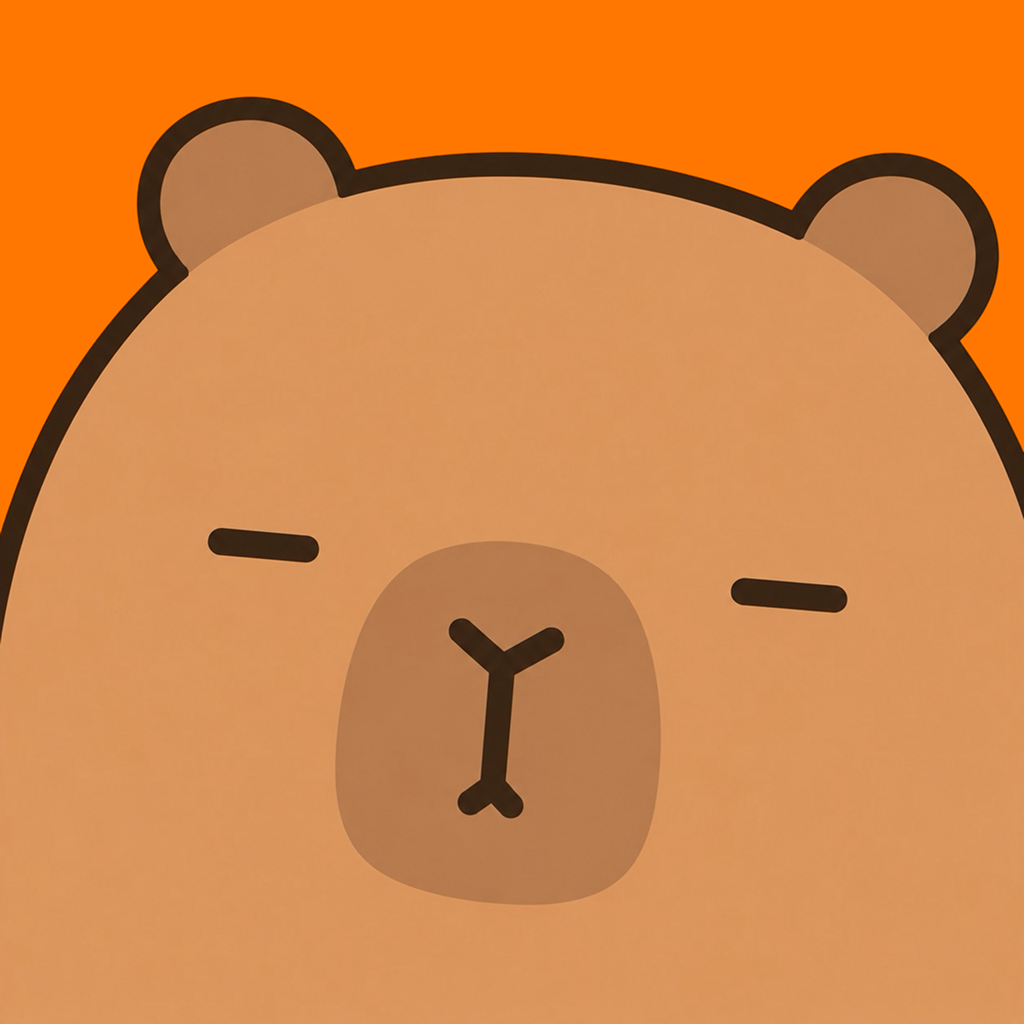
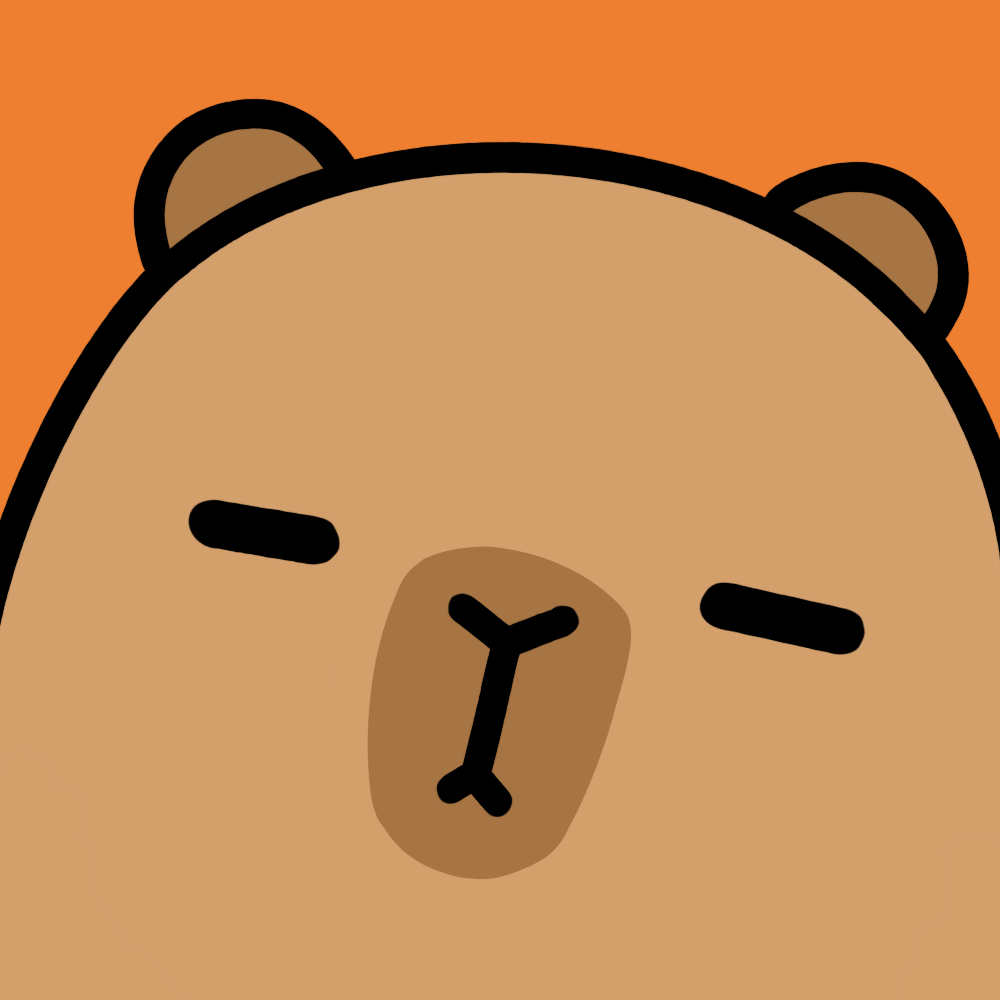
refactor(frontend): 지원 페이지 카카오톡 채널 추가 및 베타 스펙 반영
- 지원 페이지 문의 채널을 카카오톡 채널(pf.kakao.com/_TshfX) + 이메일 카드로 재구성
- 베타에서 제외된 구독·이용등급 내용을 FAQ, 개인정보 처리방침, 이용약관에서 제거
  (건초 팩 인앱결제·리워드 광고는 앱에 실재하여 유지)
- 캐피 앱 아이콘 디테일 수정본으로 교체(파비콘 포함)

diff --git a/frontend/app/support/page.tsx b/frontend/app/support/page.tsx
@@ -1,5 +1,7 @@
 import type { Metadata } from "next";
+import Image from "next/image";
 import styles from "./support.module.css";
+import kakaoIcon from "@/images/kakaotalk.png";
 
 export const dynamic = "force-static";
 
@@ -9,27 +11,24 @@ export const metadata: Metadata = {
 };
 
 const SUPPORT_EMAIL = "nonoeul123@gmail.com";
+const KAKAO_CHANNEL_URL = "https://pf.kakao.com/_TshfX";
 
 const FAQ: { q: string; a: string }[] = [
   {
-    q: "구독은 어떻게 해지하나요?",
-    a: "구독은 Apple App Store를 통해 관리됩니다. iPhone의 설정 > [내 이름] > 구독에서 언제든지 해지할 수 있으며, 해지 후에도 남은 구독 기간 동안 혜택은 유지됩니다.",
-  },
-  {
     q: "결제 환불은 어떻게 하나요?",
-    a: "인앱 결제(구독·건초)의 환불은 Apple의 환불 정책에 따라 처리됩니다. reportaproblem.apple.com에서 신청하실 수 있습니다.",
+    a: "인앱 결제(건초)의 환불은 Apple의 환불 정책에 따라 처리됩니다. reportaproblem.apple.com에서 신청하실 수 있습니다.",
   },
   {
     q: "회원 탈퇴는 어떻게 하나요?",
-    a: "앱 내 설정 > 회원 탈퇴에서 진행하실 수 있습니다. 탈퇴 시 대화·일기 등 모든 데이터가 삭제되며 복구할 수 없습니다. 다만 구독은 자동으로 해지되지 않으므로 App Store에서 별도로 해지해 주세요.",
+    a: "앱 내 설정 > 회원 탈퇴에서 진행하실 수 있습니다. 탈퇴 시 대화·일기 등 모든 데이터가 삭제되며 복구할 수 없습니다.",
   },
   {
     q: "하루에 나눌 수 있는 대화에 제한이 있나요?",
-    a: "이용 등급에 따라 하루 대화 한도가 있으며, 매일 오전 4시에 초기화됩니다. 한도에 도달하면 다음 날 다시 대화할 수 있어요.",
+    a: "하루 대화 한도가 있으며, 매일 오전 4시에 초기화됩니다. 한도에 도달하면 다음 날 다시 대화할 수 있어요.",
   },
   {
     q: "캐피의 일기는 언제 발행되나요?",
-    a: "전날 나눈 대화를 바탕으로 매일 아침 9시에 발행됩니다. 일기 열람은 누구나 무료예요.",
+    a: "전날 나눈 대화를 바탕으로 매일 아침 9시에 발행됩니다.",
   },
   {
     q: "건초는 어떻게 모을 수 있나요?",
@@ -45,22 +44,49 @@ export default function SupportPage() {
         <p className={styles.lead}>
           서비스 이용 중 문의사항이나 불편한 점이 있으시면
           <br />
-          아래 이메일로 연락 주시면 신속하게 답변 드리겠습니다.
+          아래 채널로 편하게 연락 주세요.
         </p>
       </header>
 
-      <section className={styles.card} aria-label="문의 연락처">
-        <div className={styles.row}>
-          <span className={styles.label}>이메일</span>
-          <a className={styles.email} href={`mailto:${SUPPORT_EMAIL}`}>
-            {SUPPORT_EMAIL}
-          </a>
-        </div>
-        <div className={styles.divider} />
-        <div className={styles.row}>
-          <span className={styles.label}>응답 시간</span>
-          <span className={styles.value}>영업일 기준 1~3일 이내</span>
-        </div>
+      <section className={styles.channels} aria-label="문의 채널">
+        <a
+          className={`${styles.channelCard} ${styles.kakaoCard}`}
+          href={KAKAO_CHANNEL_URL}
+          target="_blank"
+          rel="noopener noreferrer"
+        >
+          <Image
+            src={kakaoIcon}
+            alt=""
+            width={44}
+            height={44}
+            className={styles.channelIcon}
+          />
+          <span className={styles.channelBody}>
+            <span className={styles.channelName}>카카오톡 채널 문의</span>
+            <span className={styles.channelDesc}>
+              1:1 채팅으로 가장 빠르게 답변받을 수 있어요
+            </span>
+          </span>
+          <span className={styles.channelArrow} aria-hidden>
+            ›
+          </span>
+        </a>
+
+        <a className={styles.channelCard} href={`mailto:${SUPPORT_EMAIL}`}>
+          <span className={styles.emailIcon} aria-hidden>
+            ✉
+          </span>
+          <span className={styles.channelBody}>
+            <span className={styles.channelName}>이메일 문의</span>
+            <span className={styles.channelDesc}>
+              {SUPPORT_EMAIL} · 영업일 기준 1~3일 이내 답변
+            </span>
+          </span>
+          <span className={styles.channelArrow} aria-hidden>
+            ›
+          </span>
+        </a>
       </section>
 
       <section aria-label="자주 묻는 질문">

diff --git a/frontend/app/support/support.module.css b/frontend/app/support/support.module.css
@@ -26,49 +26,94 @@
   color: var(--text-muted);
 }
 
-/* 연락처 카드 */
-.card {
-  background: var(--surface-raised);
-  border: 1px solid var(--border);
-  border-radius: 14px;
-  padding: 8px 20px;
+/* 문의 채널 카드 */
+.channels {
+  display: flex;
+  flex-direction: column;
+  gap: 12px;
   margin-bottom: 44px;
 }
 
-.row {
+.channelCard {
   display: flex;
   align-items: center;
-  justify-content: space-between;
-  gap: 16px;
-  padding: 16px 0;
+  gap: 14px;
+  background: var(--surface-raised);
+  border: 1px solid var(--border);
+  border-radius: 14px;
+  padding: 16px 18px;
+  text-decoration: none;
+  color: var(--text);
+  transition: border-color 0.15s ease, transform 0.15s ease;
 }
 
-.label {
-  font-size: 14px;
+.channelCard:hover {
+  border-color: var(--border-soft);
+  transform: translateY(-1px);
+}
+
+.kakaoCard {
+  background: #fee500;
+  border-color: #fee500;
+  color: #191919;
+}
+
+.kakaoCard:hover {
+  border-color: #f5dc00;
+}
+
+.channelIcon {
+  border-radius: 10px;
+  flex-shrink: 0;
+}
+
+.emailIcon {
+  width: 44px;
+  height: 44px;
+  border-radius: 10px;
+  background: var(--surface-inset);
+  display: flex;
+  align-items: center;
+  justify-content: center;
+  font-size: 20px;
+  flex-shrink: 0;
+}
+
+.channelBody {
+  display: flex;
+  flex-direction: column;
+  gap: 3px;
+  min-width: 0;
+}
+
+.channelName {
+  font-size: 16px;
+  font-weight: 700;
+}
+
+.kakaoCard .channelName {
+  color: #191919;
+}
+
+.channelDesc {
+  font-size: 13px;
+  color: var(--text-subtle);
+  word-break: break-all;
+}
+
+.kakaoCard .channelDesc {
+  color: rgba(25, 25, 25, 0.72);
+}
+
+.channelArrow {
+  margin-left: auto;
+  font-size: 22px;
   color: var(--text-subtle);
   flex-shrink: 0;
 }
 
-.value {
-  font-size: 15px;
-  color: var(--text);
-}
-
-.email {
-  font-size: 16px;
-  font-weight: 600;
-  color: var(--accent);
-  text-decoration: none;
-}
-
-.email:hover {
-  text-decoration: underline;
-  text-underline-offset: 2px;
-}
-
-.divider {
-  height: 1px;
-  background: var(--border);
+.kakaoCard .channelArrow {
+  color: rgba(25, 25, 25, 0.55);
 }
 
 /* 자주 묻는 질문 */
